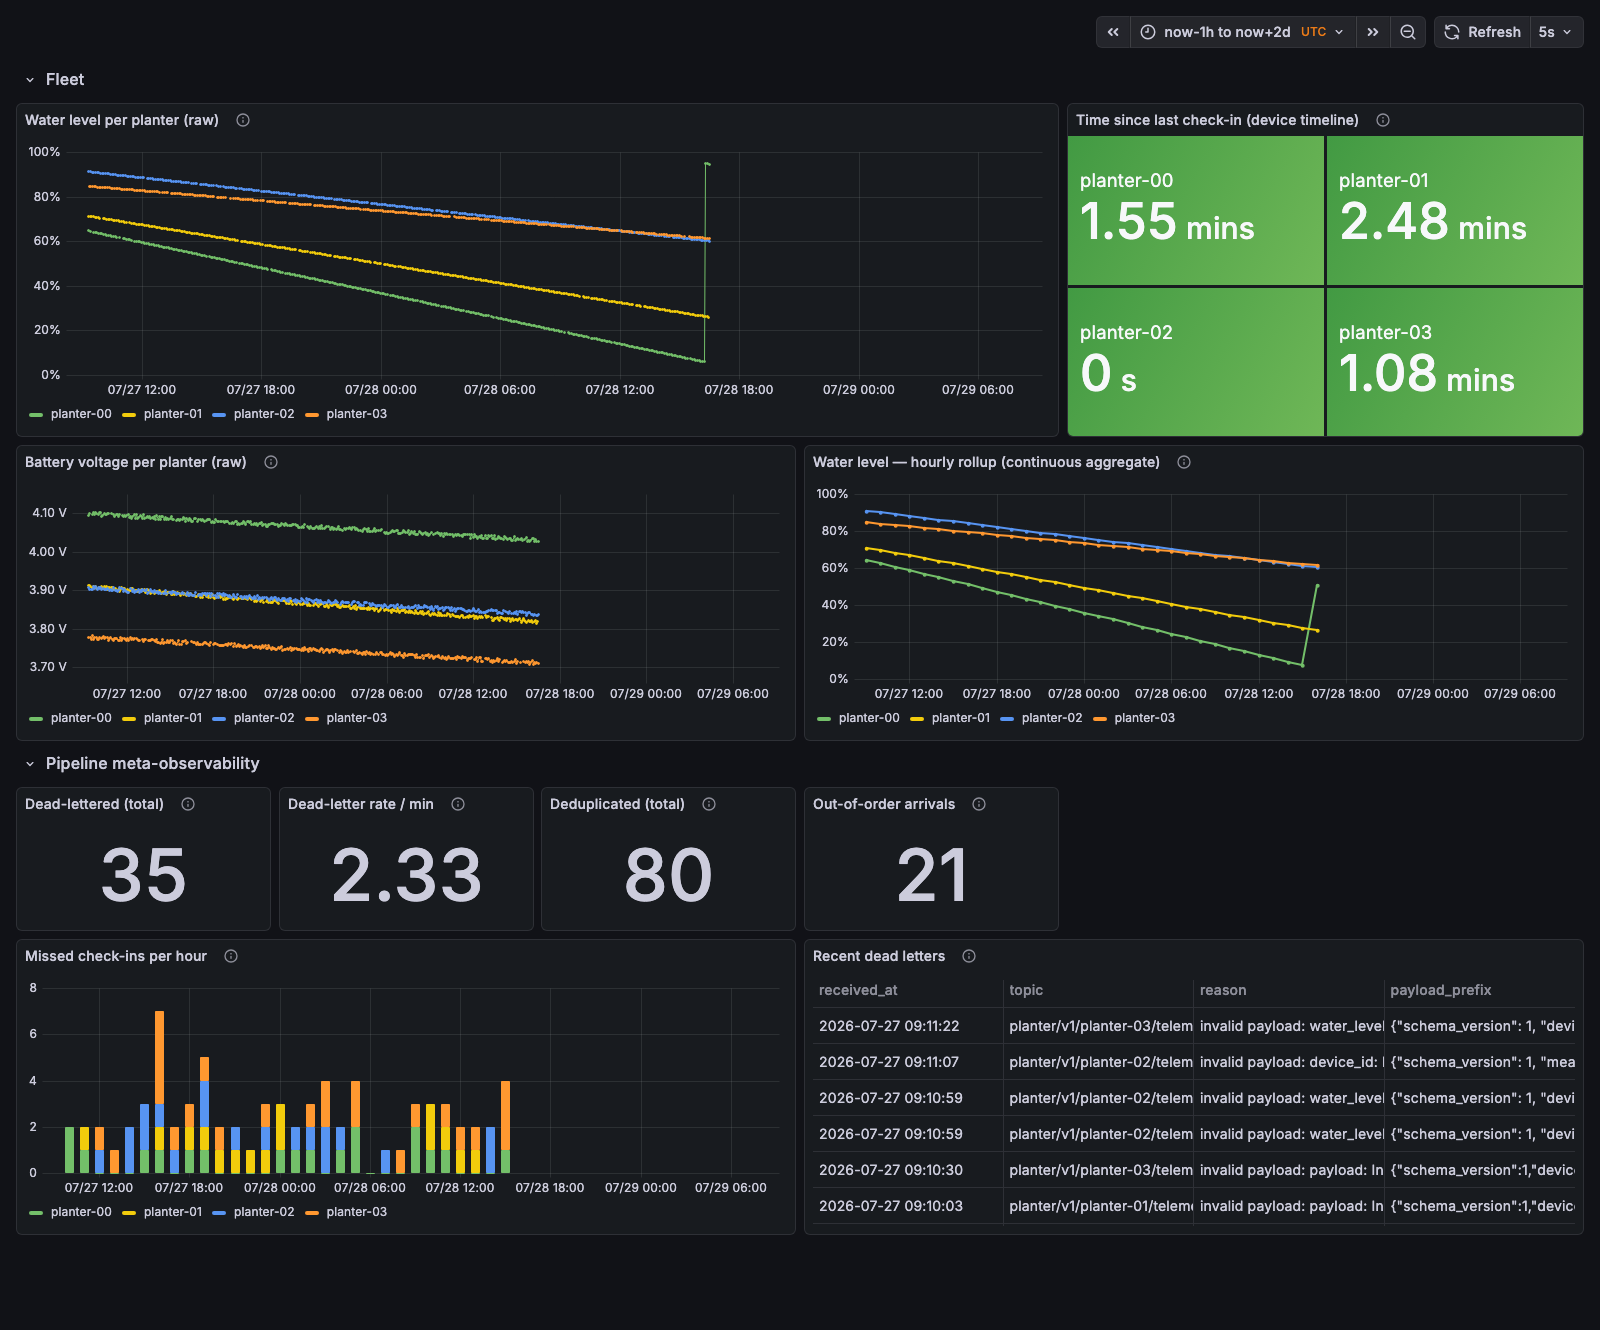
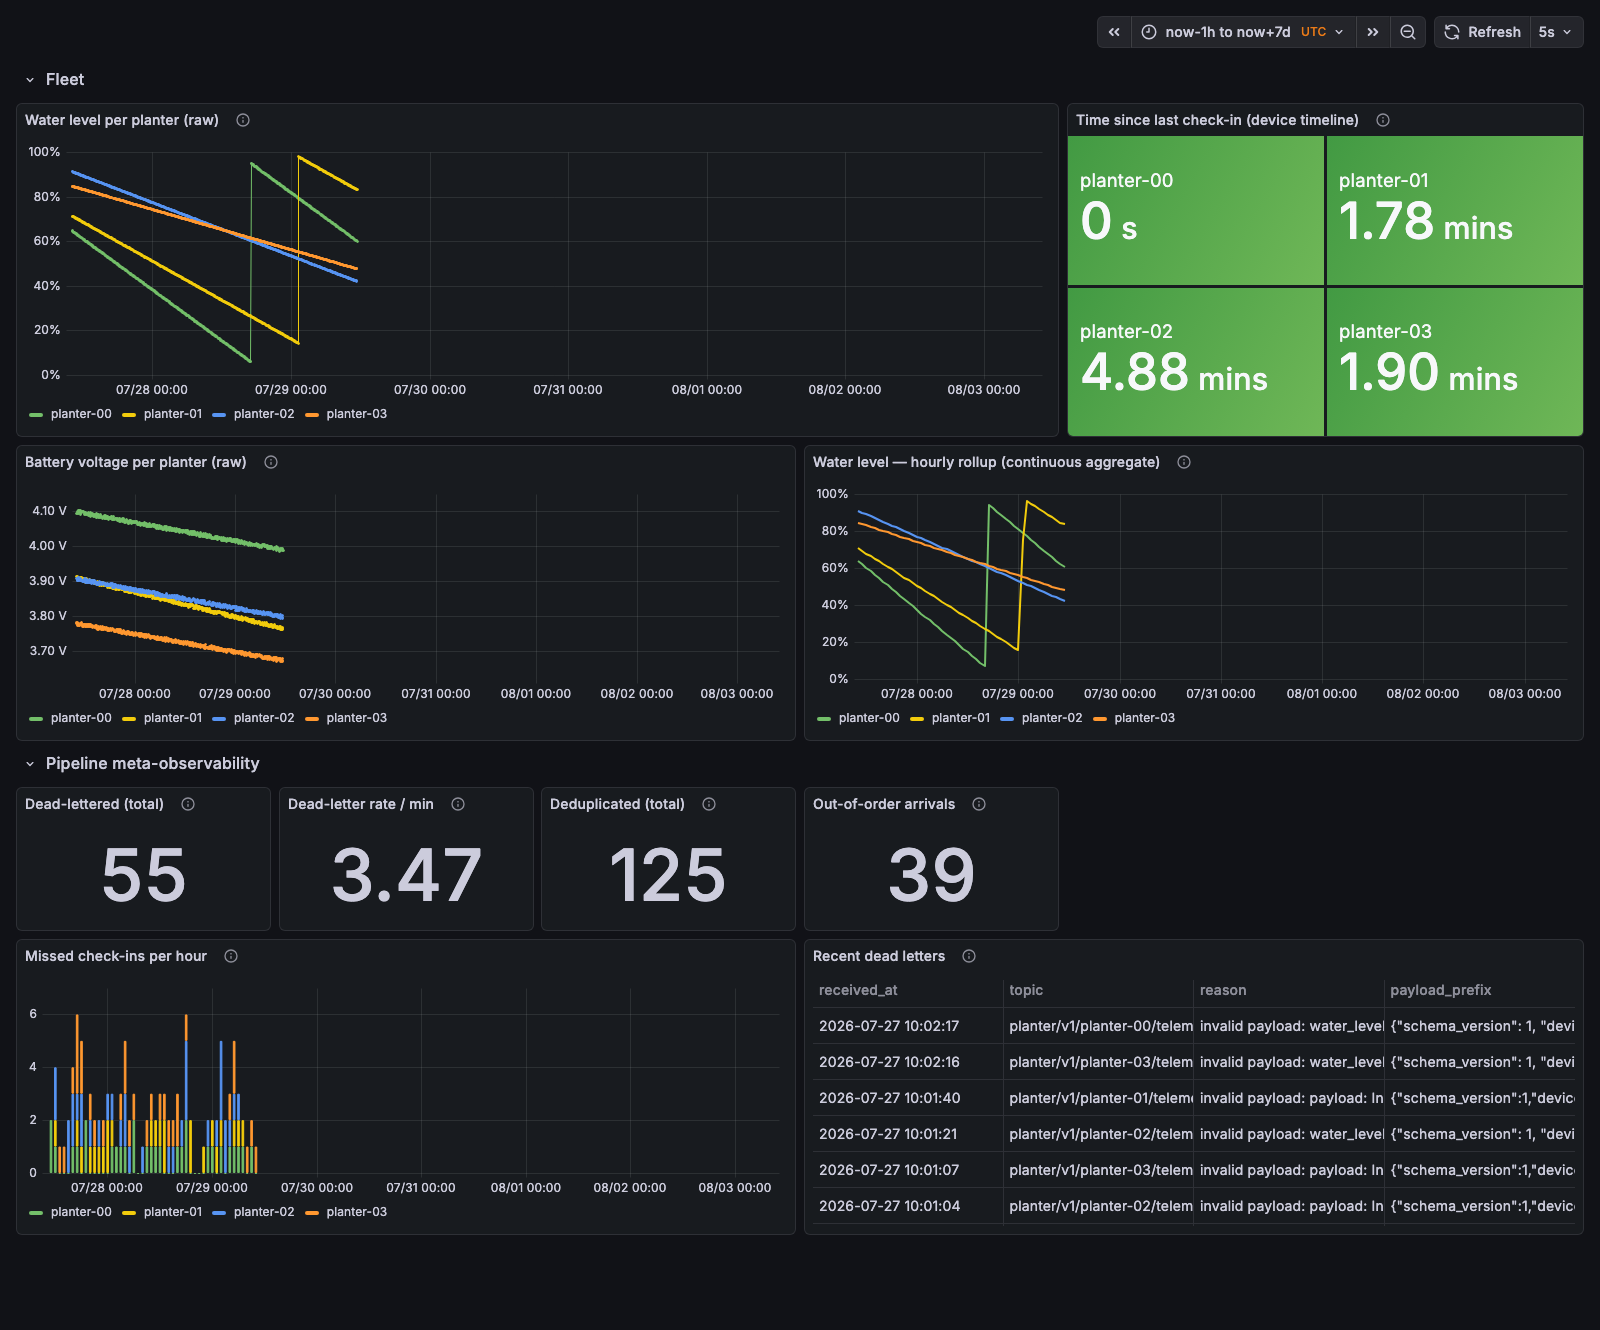
M4: apply code-review fixes — outrun the 180x clock, honest rate tile, smoke test sees rows
- Default range now-1h → now+7d: the right edge advances at wall speed
  while measured_at advances 180x faster, so now+2d left the live edge
  after ~16 wall-minutes; 7d keeps it in-window for a ~56-minute demo.
- Dead-letter rate panel: expectation corrected to ~3.5/min (the old
  description quoted a per-second figure), denominator clamps to stream
  uptime so the first 15 minutes aren't understated.
- grafana-smoke now requires a NONZERO telemetry count through
  /api/ds/query — an empty database also returns data frames, so the old
  grep could never fail on missing data.
- Refreshed docs/img/dashboard.png (time picker shows the new range).

diff --git a/tests/test_dashboard.py b/tests/test_dashboard.py
@@ -52,8 +52,12 @@ def test_dashboard_identity_and_demo_ergonomics() -> None:
     assert isinstance(dashboard["schemaVersion"], int)
     # The simulator's clock runs 180x ahead of the wall clock from wall-now:
     # the range must reach into the future or the dashboard shows nothing,
-    # and 5s refresh = 15 virtual minutes = 3 new points per device.
-    assert dashboard["time"] == {"from": "now-1h", "to": "now+2d"}
+    # and 5s refresh = 15 virtual minutes = 3 new points per device. The
+    # right edge must also outrun the data: `now+X` advances at 1x while
+    # measured_at advances at 180x, so the live edge leaves the window after
+    # X/179 of wall time — 7d keeps it in-window for ~56 wall-minutes, a
+    # full demo session (2d would freeze the panels after ~16).
+    assert dashboard["time"] == {"from": "now-1h", "to": "now+7d"}
     assert dashboard["refresh"] == "5s"
     # Device timestamps must not be shifted by the viewer's browser locale.
     assert dashboard["timezone"] == "utc"

diff --git a/docs/dashboard-queries.md b/docs/dashboard-queries.md
@@ -14,9 +14,12 @@ and `occurred_at` on `ingest_events` are wall-clock arrival times. Two
 consequences:
 
 - The dashboard's time axis is device time — the default range is
-  `now-1h → now+2d` (into the future, deliberately), and staleness is
+  `now-1h → now+7d` (into the future, deliberately), and staleness is
   measured against the fleet-wide `max(measured_at)` ("virtual now"), never
-  against wall `now()`.
+  against wall `now()`. The generous right edge is load-bearing: `now+X`
+  advances at wall speed while the data advances 180× faster, so the live
+  edge leaves the window after X/179 of wall time — 7 days keeps it
+  in-window for ~56 wall-minutes, a full demo session.
 - The meta-observability stat panels do the opposite: they ignore the
   dashboard time range entirely, because filtering wall-clock arrival
   columns by a virtual-time range would silently mix the two clocks. Totals
@@ -114,14 +117,22 @@ SELECT count(*) AS dead_lettered FROM dead_letter
 ### Dead-letter rate / min
 
 ```sql
-SELECT round(count(*) / 15.0, 2) AS per_minute
+SELECT round(count(*) * 60.0 / GREATEST(EXTRACT(EPOCH FROM (now() -
+           GREATEST((SELECT min(received_at) FROM telemetry),
+                    now() - INTERVAL '15 minutes'))), 60.0), 2) AS per_minute
 FROM dead_letter
 WHERE received_at > now() - INTERVAL '15 minutes'
 ```
 
 Explicit wall-clock window (see above). At the simulator defaults
-(~2.9 messages/s fleet-wide, 2% malformed) expect a small but nonzero
-number.
+(~2.9 messages/s fleet-wide, 2% malformed) expect ~3.5/min. The
+denominator is the window's *covered* wall time, not a flat 15 minutes:
+clamping the window start to the stream's first arrival
+(`min(received_at)` on `telemetry`) keeps the rate honest during the
+first 15 minutes of a fresh stack — exactly the advertised demo window —
+and the 60-second floor avoids divide-by-near-zero right at startup.
+(`GREATEST` ignores NULLs, so an empty `telemetry` falls back to the
+plain 15-minute window.)
 
 ### Deduplicated (total)
 

diff --git a/README.md b/README.md
@@ -82,7 +82,7 @@ clock runs 180× ahead of the wall clock, so every wall-minute adds three
 virtual hours of per-planter water/battery history — plus the
 meta-observability row, where the pipeline shows off what it survived
 (dead-lettered garbage, absorbed duplicates, out-of-order arrivals, missed
-check-ins). The default time range reaches into the *future* (`now → now+2d`)
+check-ins). The default time range reaches into the *future* (`now → now+7d`)
 for the same reason; details in
 [docs/dashboard-queries.md](docs/dashboard-queries.md).
 
@@ -181,7 +181,8 @@ by provisioned uid, no `${DS_*}` import variables, demo-tuned time range).
 The compose healthcheck marks Grafana healthy only once it can run the
 datasource health check — an actual `SELECT 1` against TimescaleDB as
 `grafana_reader` — and CI's `make grafana-smoke` asserts the provisioned
-datasource and dashboard exist and that a real panel query returns rows.
+datasource and dashboard exist and that a query through Grafana sees a
+nonzero telemetry count.
 
 Configuration via environment variables (read by `docker-compose.yml`; the
 `GRAFANA_DB_*` pair is interpolated by Grafana into the datasource yaml):
